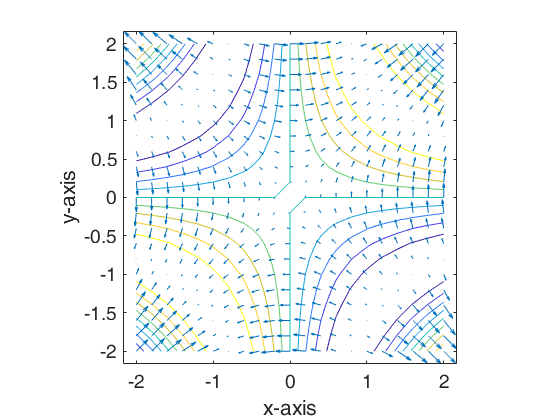
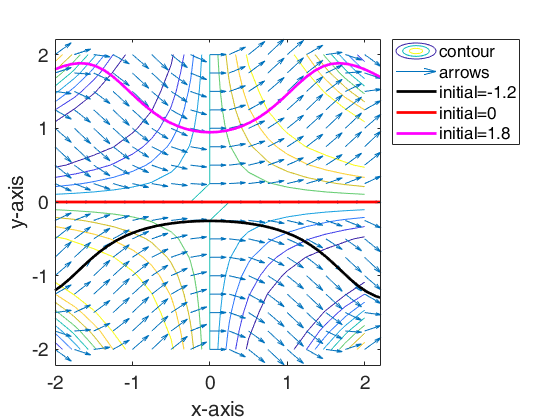
Update exp1-ex6 data

diff --git a/exp1/experiment1.md b/exp1/experiment1.md
@@ -205,17 +205,24 @@ end
 ## Exercise 6
 ```matlab
 %% Exercise 6
-[x, y] = meshgrid(-2: .2 :2, -2: .2: 2);
+[x, y] = meshgrid(-2: .25 :2, -2: .25: 2);
 Dy = sin(x .* y);
-[fx, fy] = gradient(Dy, .2, .2);
 contour(x, y, Dy);
 hold on;
-quiver(x, y, fx, fy);
+quiver(x, y, ones(size(Dy)), Dy);
+[xreal, yreal] = ode45(@(x, y) sin(x .* y), [-2, 2.2], -1.2);
+plot(xreal, yreal, 'black', 'linewidth', 2);
+[xreal, yreal] = ode45(@(x, y) sin(x .* y), [-2, 2.2], 0);
+plot(xreal, yreal, 'red', 'linewidth', 2);
+[xreal, yreal] = ode45(@(x, y) sin(x .* y), [-2, 2.2], 1.8);
+plot(xreal, yreal, 'magenta', 'linewidth', 2);
+legend('contour', 'arrows', 'initial=-1.2', 'initial=0', 'initial=1.8', 'Location','NorthEastOutside')
 hold off;
-axis image;
+axis square;
 xlabel('x-axis');
 ylabel('y-axis');
 set(gca, 'fontsize', 14);
+
 ```
 
 ![Experiment 6](experiment1_13.png)
